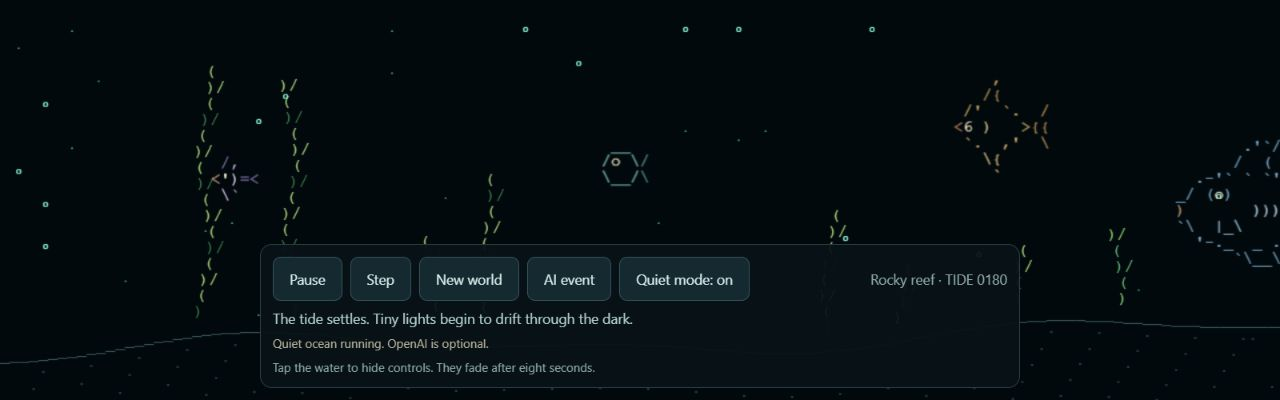
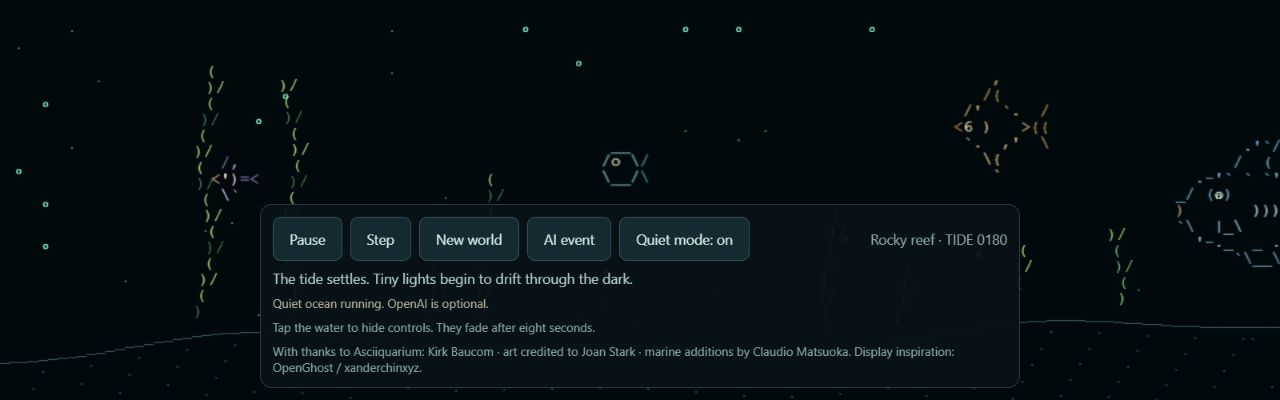
Honor upstream creators throughout the project and require prints in enclosure build instructions

diff --git a/simulator/pi.html b/simulator/pi.html
@@ -26,6 +26,7 @@ button{background:#142930;border:1px solid #37545c;border-radius:8px;padding:12p
 <div id="event">The tide settles. Tiny lights begin to drift through the dark.</div>
 <div id="status">Quiet ocean running. OpenAI is optional.</div>
 <div class="readout">Tap the water to hide controls. They fade after eight seconds.</div>
+<div class="readout">With thanks to Asciiquarium: Kirk Baucom · art credited to Joan Stark · marine additions by Claudio Matsuoka. Display inspiration: OpenGhost / xanderchinxyz.</div>
 <div class="stats"><span id="plankton"></span><span id="fry"></span><span id="hunters"></span><span id="algae"></span></div>
 </section>
 <script>
@@ -37,4 +38,3 @@ panel.addEventListener('pointerdown',reveal);
 </script>
 <script src="ocean-life.js"></script><script src="aquarium.js"></script><script src="fish-art.js"></script><script src="simulator.js"></script>
 </body></html>
-

diff --git a/CREDITS.md b/CREDITS.md
@@ -1,0 +1,40 @@
+# Credits and project origins
+
+ASCII Genesis grew from other people's work. The original Asciiquarium creators gave us the character art and the idea of a living ASCII sea. OpenGhost inspired the early exploration of a small physical display. Their willingness to share their projects made this one possible, and their names belong alongside it wherever it is shared.
+
+## Asciiquarium and its creators
+
+Start with [Asciiquarium](https://github.com/cmatsuoka/asciiquarium), the terminal aquarium that inspired this ocean. The preserved upstream source also points to [Kirk Baucom's original project site](http://robobunny.com/projects/asciiquarium/).
+
+| Person or community | Contribution credited upstream | Connection to ASCII Genesis |
+| --- | --- | --- |
+| **Kirk Baucom** | Author of Asciiquarium; copyright holder in the bundled source | The original aquarium, source drawings, color masks, and permission to build on them under GPL-2.0-or-later. |
+| **Joan Stark** | Most of the ASCII artwork | The hand-drawn character style that prompted us to retain the original fish instead of replacing them with simpler shapes. Upstream credits most art to Joan; it does not identify the author of every individual drawing. |
+| **Claudio Matsuoka** | Expanded marine biodiversity, backported from the Asciiquarium Android live wallpaper | The expanded upstream fish collection and repository from which our bundled source was obtained. |
+| **Asciiquarium contributors and maintainers** | Ongoing shared work around the original project | Keeping the source and creative foundation available for people to learn from and adapt. |
+
+Eleven of our seventeen fish designs are adapted from Asciiquarium 1.1. Their directional drawings, spacing, and component color masks are preserved in the browser adaptation. The duplicate diamond design was omitted. The original notices and full source remain in [asciiquarium-upstream.pl](third-party/asciiquarium-upstream.pl); the adapted collection is in [fish-art.js](simulator/fish-art.js). See [THIRD-PARTY.txt](THIRD-PARTY.txt) and [LICENSE.txt](LICENSE.txt), GPL-2.0-or-later.
+
+The original terminal program uses Term::Animation and Curses. We also acknowledge that terminal-animation foundation, while this version renders through a browser canvas.
+
+## OpenGhost and the display idea
+
+Thank you to **[xanderchinxyz](https://github.com/xanderchinxyz) and the OpenGhost contributors** for [OpenGhost](https://github.com/xanderchinxyz/OpenGhost), an open-source Pepper's Ghost display project. Exploring its screen, beam-splitter cube, and physical presentation helped start our conversation about making an ASCII ocean as a desk decoration.
+
+That exploration included an ESP32-S3 and reflective cube concept before this project settled on a Raspberry Pi 4 with a direct-view Waveshare 7.9-inch HDMI display. OpenGhost is credited here as an inspiration: its program and enclosure files are not included in this repository. The case and leg models supplied here are Mikepyt87's designs. OpenGhost retains its own authorship and license.
+
+## The hardware and software foundation
+
+Thanks also to the [Raspberry Pi](https://www.raspberrypi.com/) and Raspberry Pi OS communities, [Waveshare](https://www.waveshare.com/wiki/7.9inch_HDMI_LCD), [Node.js](https://nodejs.org/), and [Chromium](https://www.chromium.org/). Their hardware, documentation, and software make it practical to run this display on a small computer.
+
+## What this project adds
+
+Mikepyt87 built and tested the desk display and supplied its printable enclosure and legs. Development used assistance from OpenAI tools. The additions in this repository include six new fish drawings, the diver, browser rendering, traveling terrain, the simplified food web, occasional encounters, desktop launchers, updates, and optional API narration. These additions build on the earlier projects' ideas and artwork.
+
+## Sharing and contributing
+
+When sharing ASCII Genesis, please include a link to Asciiquarium and credit its creators. When discussing the origins of the physical display idea, include OpenGhost. A short credit you can use is:
+
+> ASCII Genesis builds on Asciiquarium by Kirk Baucom, with most ASCII artwork credited upstream to Joan Stark and expanded marine biodiversity by Claudio Matsuoka. OpenGhost by xanderchinxyz and its contributors inspired the initial display exploration.
+
+Keep upstream copyright and license notices with redistributed source and artwork. Give new contributors credit for their own work, and distinguish adapted assets from new ones. See [contribution guidance](CONTRIBUTING.md). Links and acknowledgments do not imply endorsement by the original creators.

diff --git a/README.md b/README.md
@@ -4,6 +4,14 @@ A quiet traveling ASCII ocean for **Raspberry Pi 4 Model B and the Waveshare 7.9
 
 Seventeen fish designs swim through kelp meadows, rocky reefs, and open sand. Terrain travels slowly, food and plant cover change by habitat, and fish enter and leave beyond the edges. The ocean runs offline. Optional narration is separate from the simulation.
 
+## Built on work worth celebrating
+
+**This project exists because other people shared their ideas and artwork.** Huge thanks to **Kirk Baucom**, the creator of [Asciiquarium](https://github.com/cmatsuoka/asciiquarium); **Joan Stark**, credited upstream for most of its ASCII art; and **Claudio Matsuoka**, who expanded its marine biodiversity. Eleven of the fish designs here come from that work.
+
+Thanks also to **xanderchinxyz and the [OpenGhost](https://github.com/xanderchinxyz/OpenGhost) contributors**. Their Pepper's Ghost display inspired the initial physical-display exploration that led to this desk ocean. This build uses a Pi 4 and a direct-view screen; its included enclosure is Mikepyt87's design.
+
+Please explore those original projects as well as this one. Read [Credits and project origins](CREDITS.md) for the full story, preserved notices, and what each project contributed.
+
 ## See the ocean
 
 ![ASCII Genesis fish and seaweed across the full ocean display](docs/screenshots/ocean.jpg)
@@ -22,6 +30,7 @@ Browse the [Ocean Library](docs/OCEAN-LIBRARY.md) for all 17 fish designs with b
 - Waveshare 7.9-inch 400 × 1280 HDMI touchscreen.
 - A good 5 V / 3 A USB-C supply for the Pi 4. The official 15 W Raspberry Pi supply is the intended choice.
 - Micro-HDMI to HDMI cable for video, plus the USB data cable for the display's TOUCH connection.
+- **3D printer access or a printing service, plus filament, to make one case and two legs for the included enclosure build.** See [print instructions](3d-printing/README.md).
 - Keyboard/mouse for first setup. After installation, use the Raspberry Pi desktop icon to launch.
 
 The display's USB connection provides touch and can supply display power from the Pi. Check the total load of your USB devices; if the display resets or low-voltage warnings appear, check cables/power and use the manufacturer's separate-power arrangement as needed. Physical power and touch operation still need testing on your unit.
@@ -32,7 +41,14 @@ References: [Pi 4 specifications](https://www.raspberrypi.com/products/raspberry
 
 ## Printed enclosure and legs
 
-The screen and Pi enclosure models are available in [3d-printing](3d-printing/README.md), with the original 3MF files and STL versions for GitHub preview and slicer import. Print one case and two copies of the leg model. Import the STL files in millimeters at 100% scale; the model guide includes dimensions and conversion details.
+For the complete enclosure build, **print one case and two copies of the leg model** before final assembly. You need access to a 3D printer or a service that can print the files.
+
+1. Download [Case.stl](3d-printing/Case.stl) and [Legs(x2).stl](3d-printing/Legs%28x2%29.stl), or their original 3MF versions from the [model guide](3d-printing/README.md).
+2. Import the STL files in **millimeters at 100% scale**. The legs file is one model: duplicate it in your slicer or print it twice.
+3. Choose the bed orientation and print settings for your printer. The files preserve the CAD orientation, and verified layer height, infill, supports, and fastener specifications have not yet been supplied.
+4. Print the parts, check their fit with your screen and Pi, then assemble the enclosure and legs. Keep cable openings and Pi ventilation clear.
+
+You can install and test the software while the parts print. The model guide includes dimensions and conversion details.
 
 ## Install from GitHub — one-time setup
 
@@ -124,7 +140,7 @@ python3 raspberry-pi/desktop-check.py
 
 ## Artwork and license
 
-Eleven designs derive from Asciiquarium; six are original ASCII Genesis drawings. See [THIRD-PARTY.txt](THIRD-PARTY.txt) and [LICENSE.txt](LICENSE.txt), GPL-2.0-or-later. Source drawings and their generator are in `third-party/`. Regenerate the fish collection from the project root with `node third-party/restore-sprites.mjs`.
+The [Asciiquarium creators and OpenGhost community](CREDITS.md) deserve prominent credit for the work that brought us here. Eleven designs derive from Asciiquarium; six are original ASCII Genesis drawings. See [THIRD-PARTY.txt](THIRD-PARTY.txt) and [LICENSE.txt](LICENSE.txt), GPL-2.0-or-later. Source drawings and their generator are in `third-party/`. Regenerate the fish collection from the project root with `node third-party/restore-sprites.mjs`.
 
 ### Diagnose an API connection
 

diff --git a/docs/SCREENSHOTS.md b/docs/SCREENSHOTS.md
@@ -4,6 +4,10 @@ ASCII Genesis is a quiet, traveling ASCII ocean for a Raspberry Pi 4 and a Waves
 
 These are captures of the current browser renderer at **1280 × 400**, taken on a desktop rather than photographed on the Pi. Scenes were advanced and held still for capture, including the rare visitor and encounter. Actual visits are spaced out during normal use, and every new world varies.
 
+## Thanks to the original creators
+
+Much of the character of this ocean comes from [Asciiquarium](https://github.com/cmatsuoka/asciiquarium): **Kirk Baucom** created the original project, **Joan Stark** is credited upstream for most of its ASCII art, and **Claudio Matsuoka** expanded its marine biodiversity. Eleven fish designs here adapt their shared work. **xanderchinxyz and the [OpenGhost](https://github.com/xanderchinxyz/OpenGhost) contributors** inspired the initial physical-display exploration. Please visit their projects and read [Credits and project origins](../CREDITS.md).
+
 ## Traveling ocean
 
 ![Fish cruising through tall green seaweed above a rolling seabed](screenshots/ocean.jpg)
@@ -50,6 +54,6 @@ The ocean, diver, and encounters all work **offline without an API key**. The AI
 
 ## Build and run it
 
-The supported setup is a **Raspberry Pi 4 Model B, Raspberry Pi OS Desktop 64-bit, and the Waveshare 7.9-inch screen rotated to 1280 × 400**. The installer adds native Raspberry Pi desktop launch and update icons. Open the ocean with its desktop icon; use Alt+F4 to return to the desktop.
+The supported setup is a **Raspberry Pi 4 Model B, Raspberry Pi OS Desktop 64-bit, and the Waveshare 7.9-inch screen rotated to 1280 × 400**. For the included enclosure build, print **one case and two legs** from the [print guide](../3d-printing/README.md). The installer adds native Raspberry Pi desktop launch and update icons. Open the ocean with its desktop icon; use Alt+F4 to return to the desktop.
 
 See the [README](../README.md) for the hardware list, installation from GitHub, updates, and troubleshooting. See [artwork credits](../THIRD-PARTY.txt) for the Asciiquarium sources and original project drawings, distributed under GPL-2.0-or-later.

diff --git a/3d-printing/README.md b/3d-printing/README.md
@@ -9,6 +9,12 @@ Models designed and supplied by Mikepyt87 for the ASCII Genesis screen and Raspb
 
 The legs file contains one connected model. The x2 in the filename indicates the required print quantity; the STL preserves the original geometry rather than duplicating it.
 
+## Print the enclosure
+
+For this enclosure build, you need a 3D printer or printing service and filament. **Print one Case and two copies of Legs(x2).** Download either format, import STL as millimeters at 100% scale, and duplicate the leg model in your slicer or print it twice. Choose bed orientation and settings for your printer, then check fit with the actual screen and Pi before final assembly. Keep cable access and Pi ventilation clear.
+
+The software can be tested while the prints are being made. See the [complete build instructions](../README.md#printed-enclosure-and-legs).
+
 ## Format and scale
 
 The original 3MF files are included unchanged. The binary STL versions preserve their mesh geometry, coordinates, and orientation. STL does not carry units or colors: import these files as **millimeters**, at **100% scale**. Choose a suitable bed orientation in your slicer; the export retains the CAD orientation and is not automatically placed on the print bed.
@@ -23,3 +29,7 @@ These are bounding-box dimensions along the original CAD axes, not a recommended
 Open an STL link above to use GitHub's interactive model viewer, or download either format into your slicer. GitHub documents previews for [STL files](https://docs.github.com/en/repositories/working-with-files/using-files/working-with-non-code-files#3d-file-viewer).
 
 Filament, layer height, infill, supports, and assembly hardware are not specified in these supplied models. Select those settings for your printer and assembly.
+
+## Project roots
+
+This enclosure carries an ocean built on the artwork and ideas of the [Asciiquarium creators](../CREDITS.md#asciiquarium-and-its-creators). [OpenGhost](https://github.com/xanderchinxyz/OpenGhost) inspired the original display exploration. The included enclosure models were designed by Mikepyt87; full acknowledgments are in [CREDITS.md](../CREDITS.md).

diff --git a/docs/OCEAN-LIBRARY.md b/docs/OCEAN-LIBRARY.md
@@ -2,6 +2,10 @@
 
 A field guide to everything currently drawn or simulated in the Raspberry Pi 4 ocean on the Waveshare 7.9-inch screen. The collection contains **17 fish designs, 34 directional drawings, two microscopic life types, a two-pose diver, bubbles, kelp, seabed contours, sediment texture, and water across three habitats**. An occasional diver visits, and brief predator encounters sometimes end in a catch. Quiet mode turns hunting off.
 
+## Thanks to the original creators
+
+Much of the character of this ocean comes from [Asciiquarium](https://github.com/cmatsuoka/asciiquarium): **Kirk Baucom** created the original project, **Joan Stark** is credited upstream for most of its ASCII art, and **Claudio Matsuoka** expanded its marine biodiversity. Eleven fish designs here adapt their shared work. **xanderchinxyz and the [OpenGhost](https://github.com/xanderchinxyz/OpenGhost) contributors** inspired the initial physical-display exploration. Please visit their projects and read [Credits and project origins](../CREDITS.md).
+
 ## How to read the collection
 
 Fish names describe the artwork. They are not verified biological species, and the ocean is a stylized simulation rather than a scientifically accurate marine food web. A bannerfish, moray, or ray currently follows the same basic swimming rules as the other drawings.

diff --git a/CONTRIBUTING.md b/CONTRIBUTING.md
@@ -1,0 +1,15 @@
+# Contributing to ASCII Genesis
+
+This project builds on the work of the [Asciiquarium creators and OpenGhost community](CREDITS.md). Preserve that history when adding your own work.
+
+## Credit and source tracking
+
+- Keep original authors' copyright and license notices intact, including the preserved upstream source.
+- For adapted artwork or code, record its original project, author when identified, source link, license, and your changes in THIRD-PARTY.txt and CREDITS.md.
+- Add your name or handle for your own contributions. Do not label adapted work as an original drawing.
+- Keep source drawings, the Ocean Library, screenshots, and build instructions current with working features.
+- Keep the project's GPL-2.0-or-later requirements when contributing code or artwork; bring license questions to the maintainer before adding external assets.
+
+## Verify a change
+
+Run the checks listed in [README.md](README.md#performance-and-validation). Simulation changes should preserve the calm pace, off-screen arrivals and departures, visible contact for catches, and bounded populations. For enclosure changes, document dimensions, print quantity, scale, and any verified assembly instructions. Keep untested print settings clearly identified.

diff --git a/raspberry-pi/README.md b/raspberry-pi/README.md
@@ -1,4 +1,7 @@
-# Raspberry Pi 4 / Waveshare 7.9-inch
+# Raspberry Pi 4 and Waveshare 7.9-inch build
 
-Follow the root README.md for installation from GitHub, Raspberry Pi desktop
-icons, automatic updates on launch, optional boot startup and troubleshooting.
+For the supplied enclosure build, **print one case and two legs** using the [models and print guide](../3d-printing/README.md). A 3D printer or printing service is needed. Import STLs in millimeters at 100% scale; the leg file needs two printed copies.
+
+Follow the [main instructions](../README.md) for the full hardware list, printing and assembly, GitHub installation, Raspberry Pi desktop icons, automatic updates, optional boot startup, and troubleshooting. You can test the software before enclosing the hardware.
+
+This ocean builds on [Asciiquarium](https://github.com/cmatsuoka/asciiquarium) by Kirk Baucom, with most art credited upstream to Joan Stark and expanded marine biodiversity by Claudio Matsuoka. [OpenGhost](https://github.com/xanderchinxyz/OpenGhost) inspired the initial display exploration. Please see [Credits and project origins](../CREDITS.md) and give those projects a look too.
